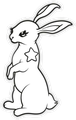
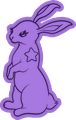
All green: no orange anywhere; purple rabbit; Proton email steps
- Accent colour is green everywhere (buttons, links, loading bar, progress,
  focus outlines, email); 'major change' badges are magenta, not orange
- Chart colours without orange or yellow, in a new order that passes the
  colourblind-safety checks in light and dark mode with no warnings
- The signature rabbit is purple (the white one is kept as rabbit-white.png)
- README: Proton Mail SMTP token steps instead of Gmail

Claude-Session: https://claude.ai/code/session_01Exs1vm2VAGfKGQQKbMFJ3v

diff --git a/templates/emails/weekly.html b/templates/emails/weekly.html
@@ -12,14 +12,14 @@
   {% if s.entries %}
   <tr><td style="padding:0 22px 12px;">
     <div style="font-size:13px;font-weight:bold;letter-spacing:1px;margin-bottom:6px;">THIS WEEK</div>
-    {% for e in (s.entries|reverse|list)[:10] %}<div style="font-size:14px;margin:4px 0;">▸ <a href="{{ site }}{{ url_for('entry', entry_id=e.id) }}" style="color:#b23f1c;">{{ e.label }}</a> · {{ CATEGORIES[e.category] }}</div>{% endfor %}
+    {% for e in (s.entries|reverse|list)[:10] %}<div style="font-size:14px;margin:4px 0;">▸ <a href="{{ site }}{{ url_for('entry', entry_id=e.id) }}" style="color:#1f6b3c;">{{ e.label }}</a> · {{ CATEGORIES[e.category] }}</div>{% endfor %}
     {% if s.entries|length > 10 %}<div style="font-size:13px;color:#5d5649;">…and {{ s.entries|length - 10 }} more.</div>{% endif %}
   </td></tr>
   {% endif %}
   {% if s.big %}
   <tr><td style="padding:0 22px 12px;">
     <div style="font-size:13px;font-weight:bold;letter-spacing:1px;margin-bottom:6px;">WORTH A LOOK</div>
-    {% for e in s.big %}<div style="font-size:14px;margin:4px 0;">▸ <a href="{{ site }}{{ url_for('entry', entry_id=e.id) }}" style="color:#b23f1c;">{{ e.label }}</a> · {{ CATEGORIES[e.category] }}</div>{% endfor %}
+    {% for e in s.big %}<div style="font-size:14px;margin:4px 0;">▸ <a href="{{ site }}{{ url_for('entry', entry_id=e.id) }}" style="color:#1f6b3c;">{{ e.label }}</a> · {{ CATEGORIES[e.category] }}</div>{% endfor %}
   </td></tr>
   {% endif %}
   {% if s.names %}
@@ -32,11 +32,11 @@
   <tr><td style="padding:0 22px 12px;">
     <div style="font-size:13px;font-weight:bold;letter-spacing:1px;margin-bottom:6px;">IMPORTANT CHANGES WITHOUT A PUBLIC COPY YET</div>
     <div style="font-size:13px;margin-bottom:6px;font-family:Georgia,serif;">If any of these matter to you, consider keeping a public, permanent copy with the Internet Archive.</div>
-    {% for e in s.offer_copy %}<div style="font-size:14px;margin:4px 0;">▸ <a href="{{ site }}{{ url_for('entry', entry_id=e.id) }}" style="color:#b23f1c;">{{ e.label }}</a></div>{% endfor %}
+    {% for e in s.offer_copy %}<div style="font-size:14px;margin:4px 0;">▸ <a href="{{ site }}{{ url_for('entry', entry_id=e.id) }}" style="color:#1f6b3c;">{{ e.label }}</a></div>{% endfor %}
   </td></tr>
   {% endif %}
   <tr><td style="padding:8px 22px 22px;">
-    <a href="{{ site }}{{ url_for('summary') }}" style="display:inline-block;background:#b23f1c;color:#fff8ee;text-decoration:none;padding:10px 16px;border:2px solid #2a2620;font-size:14px;font-weight:bold;">See everything</a>
+    <a href="{{ site }}{{ url_for('summary') }}" style="display:inline-block;background:#1f6b3c;color:#f2fbf3;text-decoration:none;padding:10px 16px;border:2px solid #2a2620;font-size:14px;font-weight:bold;">See everything</a>
   </td></tr>
   <tr><td style="padding:14px 22px;border-top:2px solid #2a2620;font-size:12px;color:#5d5649;">
     You get this once a week because weekly emails are switched on for {{ email }}.

diff --git a/public/static/style.css b/public/static/style.css
@@ -5,18 +5,18 @@
   --text: #2b2620;
   --muted: #6f665b;
   --line: #e2d9cb;
-  --accent: #9a3b1e;
+  --accent: #1f6b3c;
   --accent-text: #fff;
   --del-bg: #f8d7d0; --del-text: #8a1c0b;
   --ins-bg: #d6efd6; --ins-text: #1d5a22;
-  --tiny: #8a8173; --edit: #2f6690; --major: #b5651d; --removal: #a4161a; --names: #6a4c93;
+  --tiny: #8a8173; --edit: #2f6690; --major: #a8326e; --removal: #a4161a; --names: #6a4c93;
 }
 @media (prefers-color-scheme: dark) {
   :root {
     --bg: #1c1916; --card: #262220; --text: #ece5da; --muted: #a89f92; --line: #3b3530;
-    --accent: #e07a4f; --accent-text: #1c1916;
+    --accent: #7cf29c; --accent-text: #0d1a10;
     --del-bg: #4a1f1a; --del-text: #ffb4a6; --ins-bg: #1e3b22; --ins-text: #a8e0ab;
-    --tiny: #a89f92; --edit: #7fb3d9; --major: #e6a15c; --removal: #ff7b7f; --names: #bfa3e8;
+    --tiny: #a89f92; --edit: #7fb3d9; --major: #f08bbd; --removal: #ff7b7f; --names: #bfa3e8;
   }
 }
 
@@ -156,15 +156,16 @@ pre { white-space: pre-wrap; overflow-wrap: anywhere; font-size: .85rem; max-hei
 .badge.cat-ok { background: var(--ins-text); }
 .entry.video h3 { overflow-wrap: anywhere; }
 
-/* Chart colours: a fixed order checked for colourblind-safe separation (light and dark). */
+/* Chart colours: no orange or yellow, to match the green look. This fixed order passed the
+   colourblind-safety checks in light and dark mode with no warnings (aqua, blue, magenta, green, violet, red). */
 :root {
-  --series-1: #2a78d6; --series-2: #eb6834; --series-3: #1baf7a;
-  --series-4: #eda100; --series-5: #e87ba4; --series-6: #008300;
+  --series-1: #1baf7a; --series-2: #2a78d6; --series-3: #e87ba4;
+  --series-4: #008300; --series-5: #6250d6; --series-6: #e34948;
 }
 @media (prefers-color-scheme: dark) {
   :root {
-    --series-1: #3987e5; --series-2: #d95926; --series-3: #199e70;
-    --series-4: #c98500; --series-5: #d55181; --series-6: #008300;
+    --series-1: #199e70; --series-2: #3987e5; --series-3: #d55181;
+    --series-4: #008300; --series-5: #9085e9; --series-6: #e66767;
   }
 }
 
@@ -286,7 +287,7 @@ main.wide, .top.wide { max-width: 1160px; }
 :root {
   --bg: #e6dece; --card: #f6f1e4; --text: #221f1a; --muted: #5d5649; --line: #d2c7af;
   --edge: #2a2620; --shadow: #2a2620;
-  --accent: #b23f1c; --accent-text: #fff8ee;
+  --accent: #1f6b3c; --accent-text: #f2fbf3;
   --screen: #0d1a10; --phosphor: #7cf29c; --phosphor-dim: #4fae6a; --phosphor-soft: #b9f7c9;
   --case: #e9e0c9; --case-dark: #cfc3a3; --case-edge: #a89a77;
   --font-body: "IBM Plex Sans", system-ui, -apple-system, "Segoe UI", sans-serif;
@@ -297,7 +298,7 @@ main.wide, .top.wide { max-width: 1160px; }
   :root {
     --bg: #14120e; --card: #1e1b16; --text: #efe6d2; --muted: #b3a88f; --line: #3b352a;
     --edge: #5a5141; --shadow: #000;
-    --accent: #ffb23f; --accent-text: #1a1610;
+    --accent: #7cf29c; --accent-text: #0d1a10;
     --case: #cdbf9d; --case-dark: #ad9f7d; --case-edge: #7d714f;
   }
 }

diff --git a/README.md b/README.md
@@ -118,9 +118,9 @@ The books-published numbers need no setup. They come from Open Library and fill 
 | `SMTP_PASSWORD` | the password or key the service gives you |
 | `MAIL_FROM` | who it's from, e.g. `Tripwire <you@example.com>` |
 
-*Easiest, with a Gmail account:* turn on **2-Step Verification** for the account, then go to **myaccount.google.com/apppasswords**, create an app password called `Tripwire`, and copy the 16 letters. Use `SMTP_HOST` = `smtp.gmail.com`, `SMTP_USER` = your full Gmail address, `SMTP_PASSWORD` = the 16 letters (no spaces), `MAIL_FROM` = `Tripwire <your Gmail address>`.
+*With Proton Mail (needs a Proton address on your own custom domain):* in Proton Mail, go to **Settings → All settings → Proton Mail → IMAP/SMTP → SMTP tokens → Generate token**. Name it `Tripwire`, choose your custom-domain address, click **Generate**, enter your Proton password, and copy the token (it's only shown once). Then use `SMTP_HOST` = `smtp.protonmail.ch`, `SMTP_PORT` = `587`, `SMTP_USER` = that address (e.g. `you@yourdomain.org`), `SMTP_PASSWORD` = the token, `MAIL_FROM` = `Tripwire <you@yourdomain.org>`. To stop Tripwire sending, delete the token in Proton.
 
-*Or with Resend (resend.com, free tier):* create an API key; use `SMTP_HOST` = `smtp.resend.com`, `SMTP_USER` = `resend`, `SMTP_PASSWORD` = the API key. To email anyone, verify your own domain in Resend and send from it; without a domain, Resend only delivers to your own account's address (`MAIL_FROM` = `Tripwire <onboarding@resend.dev>`).
+*Or with Resend (resend.com, free tier):* create an API key; use `SMTP_HOST` = `smtp.resend.com`, `SMTP_USER` = `resend`, `SMTP_PASSWORD` = the API key. To email anyone, verify your own domain in Resend and send from it.
 
 Summaries go out on Mondays during the daily run, to everyone who has them switched on (the Weekly summary page has the switch and an **Email it to me now** button). Optional: `SITE_URL` (e.g. `https://tripwire.vercel.app`) sets the address used in email links.
 
